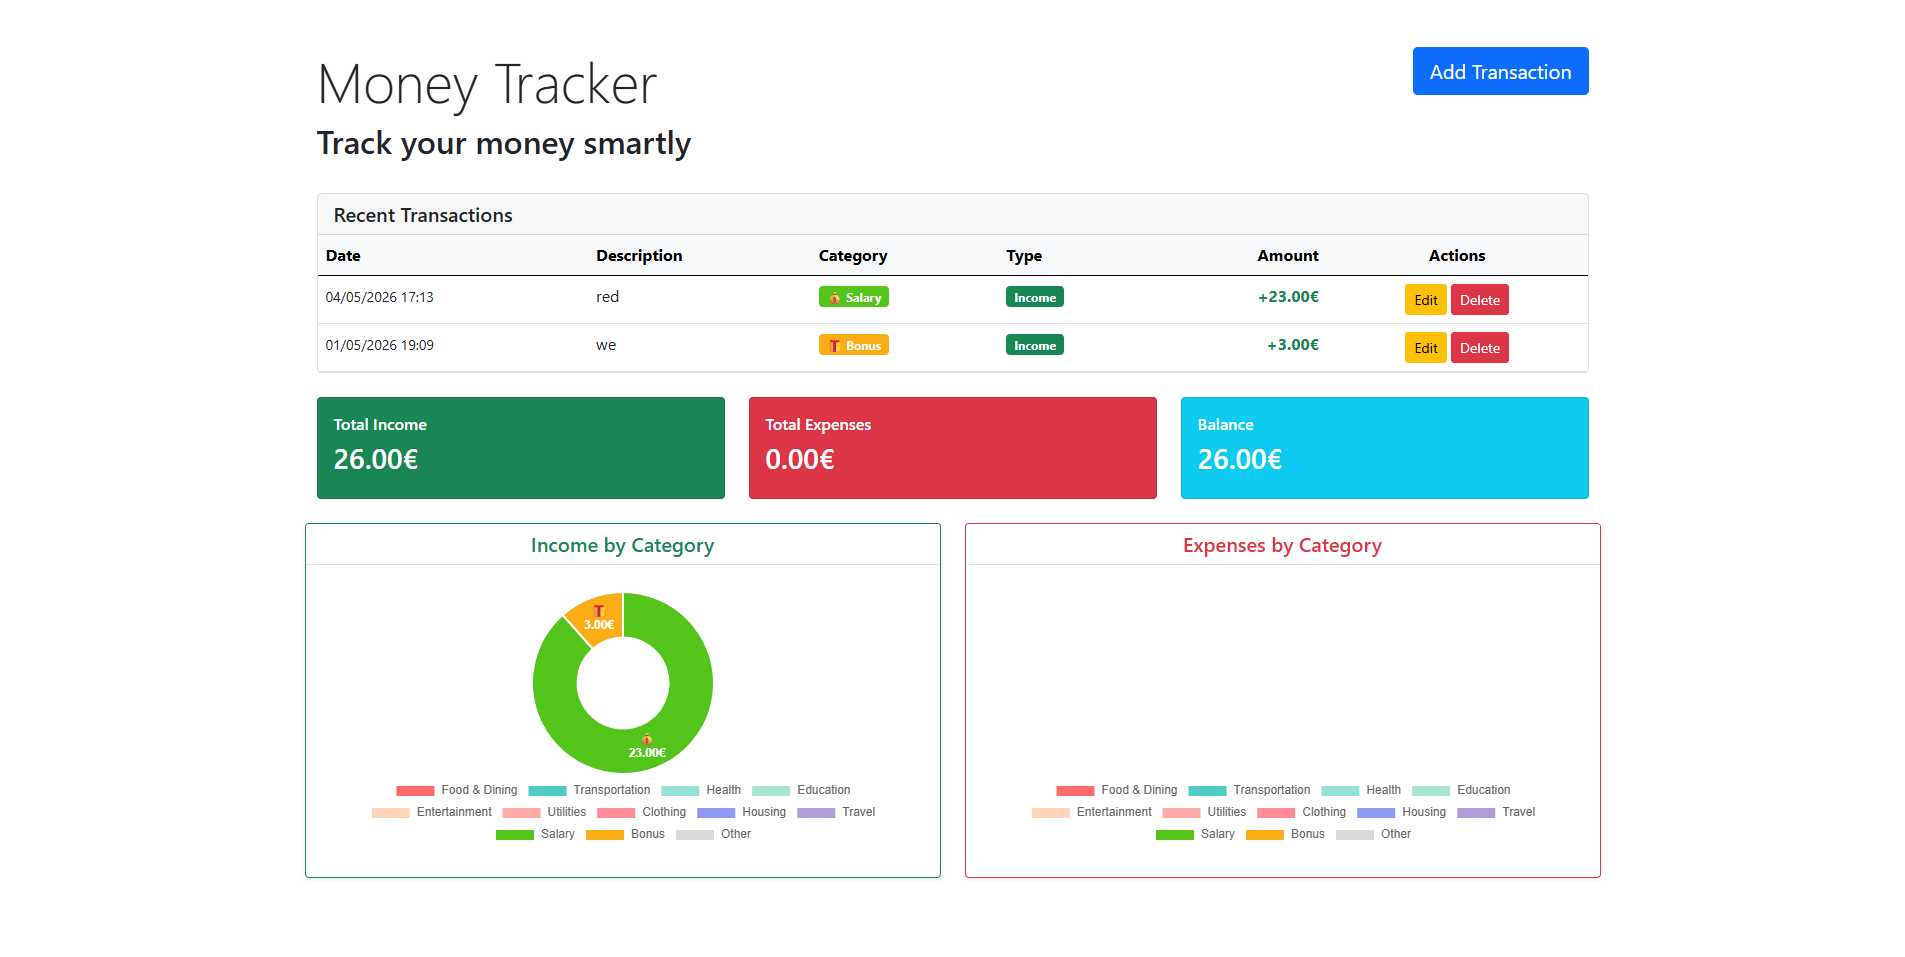
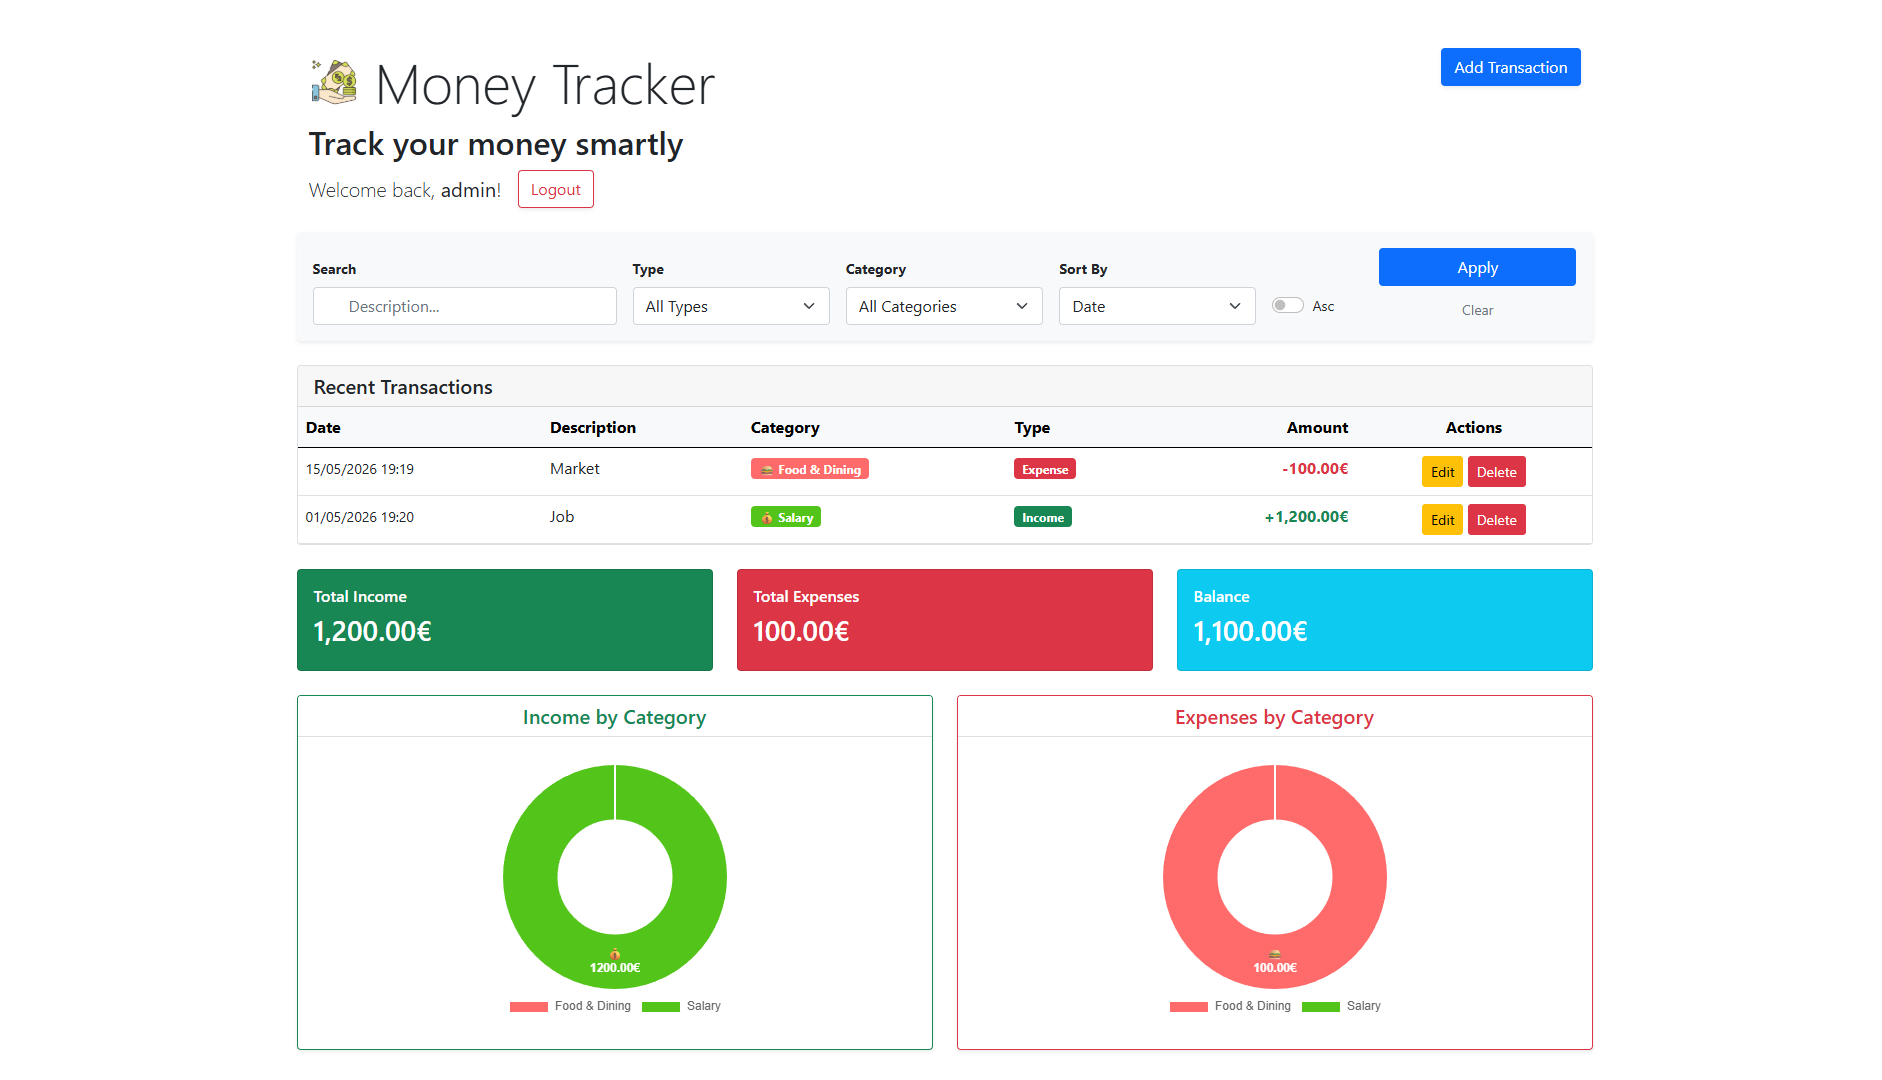
Atualização screenshots do PWA; Melhorias gerais; Melhorias no Readme (vídeo demo);

diff --git a/README.md b/README.md
@@ -4,6 +4,11 @@ A full-stack personal finance tracking web application built with **ASP.NET Core
 
 **Live Demo:** [https://moneytrackerfinances.duckdns.org](https://moneytrackerfinances.duckdns.org)
 
+## Demo Video
+Watch the full application demo:
+
+[![Watch the video](https://img.youtube.com/vi/NUys3qv_GSc/maxresdefault.jpg)](https://youtu.be/NUys3qv_GSc)
+
 ## Features
 - Add, edit and delete transactions
 - Income and expense tracking
@@ -168,5 +173,5 @@ Automated pipeline:
 ## Live URL
 [https://moneytrackerfinances.duckdns.org](https://moneytrackerfinances.duckdns.org)
 
-## Demo Video
-Watch the full application demo:
+## Credits
+**Developed by:** Ricardo Teixeira
